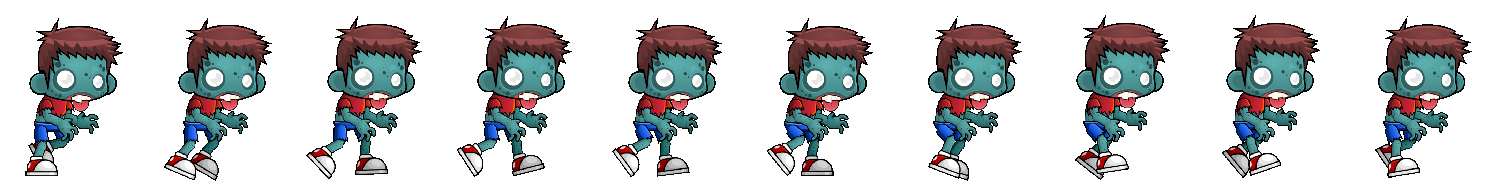
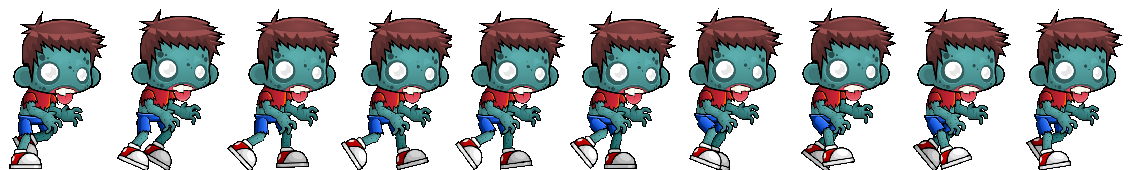
fix zombies sprites size

diff --git a/js/game_scene.js b/js/game_scene.js
@@ -11,6 +11,8 @@ var scoreText;
 var zombieCountText;
 var zombieCount;
 
+var mouseLeftDown = false;
+
 var GameScene = new Phaser.Class({
 
 
@@ -50,21 +52,20 @@ var GameScene = new Phaser.Class({
         this.load.image('faceBoy', 'assets/faceBoy.png');
         this.load.image('faceGirl', 'assets/faceGirl.png');
         this.load.image('ground', 'assets/platform.png');
-        this.load.spritesheet('zombieBoy', 'assets/zombieBoy.png', { frameWidth: 150, frameHeight: 181 });
-        this.load.spritesheet('zombieGirl', 'assets/zombieGirl.png', { frameWidth: 150, frameHeight: 165 });
+        this.load.spritesheet('zombieBoy', 'assets/zombieBoy.png', { frameWidth: 113, frameHeight: 170 });
+        this.load.spritesheet('zombieGirl', 'assets/zombieGirl.png', { frameWidth: 100, frameHeight: 160 });
         this.load.spritesheet('boy', 'assets/boy.png', { frameWidth: 70, frameHeight: 116 });
         this.load.spritesheet('woman', 'assets/woman.png', { frameWidth: 70, frameHeight: 106 });
         this.load.spritesheet('attacker', 'assets/attacker.png', { frameWidth: 70, frameHeight: 70 });
         this.load.spritesheet('deadBoy', 'assets/deadBoy.png', { frameWidth: 75, frameHeight: 61 });
         this.load.spritesheet('deadGirl', 'assets/deadGirl.png', { frameWidth: 75, frameHeight: 68 });
-        this.load.spritesheet('sewer', 'assets/sewer.png', { frameWidth: 70, frameHeight: 60 });
+        this.load.spritesheet('sewer', 'assets/sewer.png', { frameWidth: 123, frameHeight: 49 });
 
     }
     ,
 
     create: function () {
 
-        console.log(charID);
 
         newZombiePlace = 0;
         iter = 0;
@@ -115,9 +116,12 @@ var GameScene = new Phaser.Class({
         zombies = this.physics.add.group();
         if(charID == 1 ){
             zombie = this.physics.add.sprite(400, 450,'zombieBoy');
+            console.log("1 ??" +charID);
 
         }
         else{
+            console.log("2 ??" +charID);
+
             zombie = this.physics.add.sprite(400, 450, 'zombieGirl');
         }
 
@@ -152,6 +156,10 @@ var GameScene = new Phaser.Class({
 
         //  Input Events
         cursors = this.input.keyboard.createCursorKeys();
+        
+        this.input.on('pointerdown', function (event, gameObjects) {
+            mouseLeftDown = true;
+        });
 
         //  The score
         scoreText = this.add.text(16, 16, 'score: 0', { fontSize: '43px', fill: '#ffff' });
@@ -199,7 +207,8 @@ var GameScene = new Phaser.Class({
 
         var speed = 700;
         zombies.children.iterate(function (child) {
-            if ((cursors.up.isDown || cursors.space.isDown) && child.body.touching.down) {
+            if ((cursors.up.isDown || cursors.space.isDown ) && child.body.touching.down) {
+                //|| mouseLeftDownmouseLeftDown = false;
                 child.setVelocityY(-speed);
             }
 
@@ -220,7 +229,7 @@ var GameScene = new Phaser.Class({
 
         function addSewer(game, scaleX, scaleY) {
             var sewer = game.physics.add.sprite(2100, 850, 'sewer').setScale(scaleX, scaleY);
-            sewer.setVelocityX(-400);
+            sewer.setVelocityX(-442);
             sewer.name = 'sewer';
             game.physics.add.collider(sewer, platforms);
 
